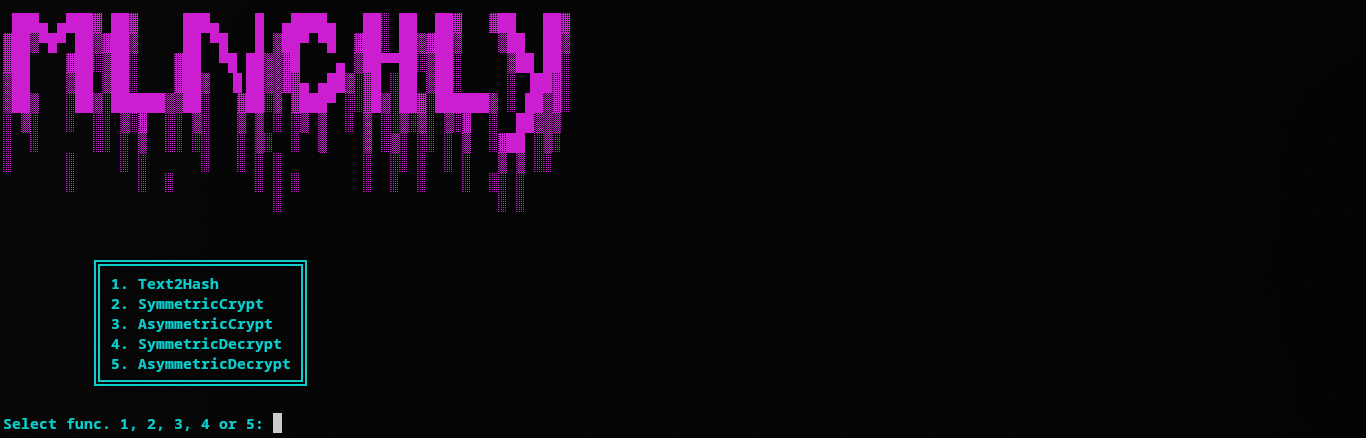
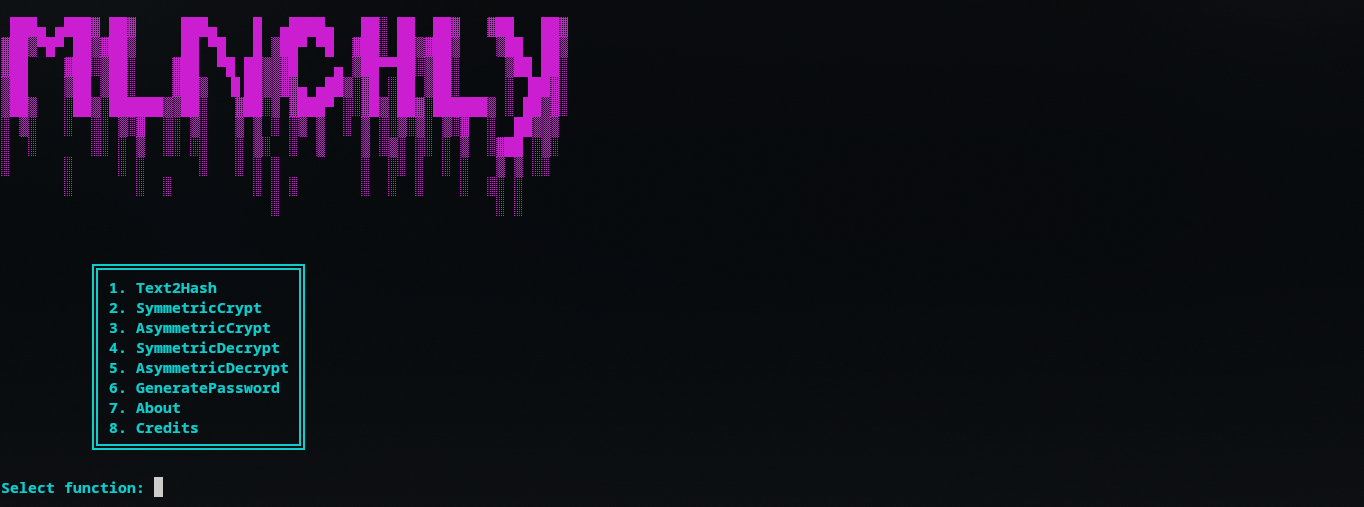
Added: generate password, screenshots, Supplemented README.md.

Changed region(s): [[0.0, 0.0297, 0.4311, 0.4749], [0.0616, 0.5046, 0.2463, 0.8904], [0.0, 0.9498, 0.2155, 1.0]]

diff --git a/main.py b/main.py
@@ -5,7 +5,7 @@ from modules.asymmetric_cipher import run_cryptoasy
 from modules.ui import print_banner
 from modules.decrypt_sym import run_decryptsym
 from modules.decrypt_asy import run_decryptasy
-
+from modules.generate_pswrd import run_genpswrd
 init(autoreset=True)
 
 def main():
@@ -17,13 +17,17 @@ def main():
 	  ║ 3. AsymmetricCrypt   ║
 	  ║ 4. SymmetricDecrypt  ║
 	  ║ 5. AsymmetricDecrypt ║
-	  ║ 6. About	         ║
-	  ║ 7. Credits           ║
+	  ║ 6. GeneratePassword  ║
+	  ║ 7. About	         ║
+	  ║ 8. Credits           ║
 	  ╚══════════════════════╝
 		""")
 	while True:
 		try:
 			choice = int(input(Fore.CYAN + Style.BRIGHT + "Select function: "))
+			if choice not in range(1, 8):
+				print(Fore.RED + Style.BRIGHT + "Choose function 1-7!")
+				continue
 			break
 		except ValueError:
 			print(Fore.RED + Style.BRIGHT + "Error! Write number, not text")
@@ -39,15 +43,17 @@ def main():
 	elif choice == 5:
 		run_decryptasy()
 	elif choice == 6:
+		run_genpswrd()
+	elif choice == 7:
 		print(Fore.CYAN + Style.BRIGHT + """
 			Mlnchly is a Python tool for working with hashes and cryptography; 
 			it supports a wide range of algorithms and handles both encryption and decryption.
-			""")
-	elif choice == 7:
+		""")
+	elif choice == 8:
 		print(Fore.CYAN + Style.BRIGHT + """
 			Sole creator: deferred. 
 			DM: Telegram @ddeferred
-			""")
+		""")
 	else:
 		print(Fore.RED + Style.BRIGHT + "Wrong number!")
 

diff --git a/modules/generate_pswrd.py b/modules/generate_pswrd.py
@@ -1,0 +1,18 @@
+from colorama import init, Fore, Style
+from modules.ui import print_banner
+import string
+import secrets
+
+init(autoreset=True)
+
+def run_genpswrd():
+	print_banner()
+	Alphabet = string.ascii_letters + string.digits + "!@#$%^&*()_+-="
+	try:
+		length = int(input(Fore.CYAN + Style.BRIGHT + "Write a length of password: "))
+	except ValueError:
+		print(Fore.RED + Style.BRIGHT + "Write a number!")
+		return
+
+	password = "".join(secrets.choice(Alphabet) for _ in range(length))
+	print(Fore.GREEN + Style.BRIGHT + f"Your password is: {password}")

diff --git a/README.md b/README.md
@@ -21,3 +21,4 @@ Hashing: **SHA1**, **SHA256**, **SHA3_384**, **SHA3_512**, **Blake2b**
 Symmetric Encrypt: **AES256**, **ChaCha20**
 Asymmetric Encrypt: **RSA2048**, **ECC256**
 Decrypting of **Symmetric and Asymmetric Encryption's**
+Generating passsword of every length, used safe **import secrets**.
